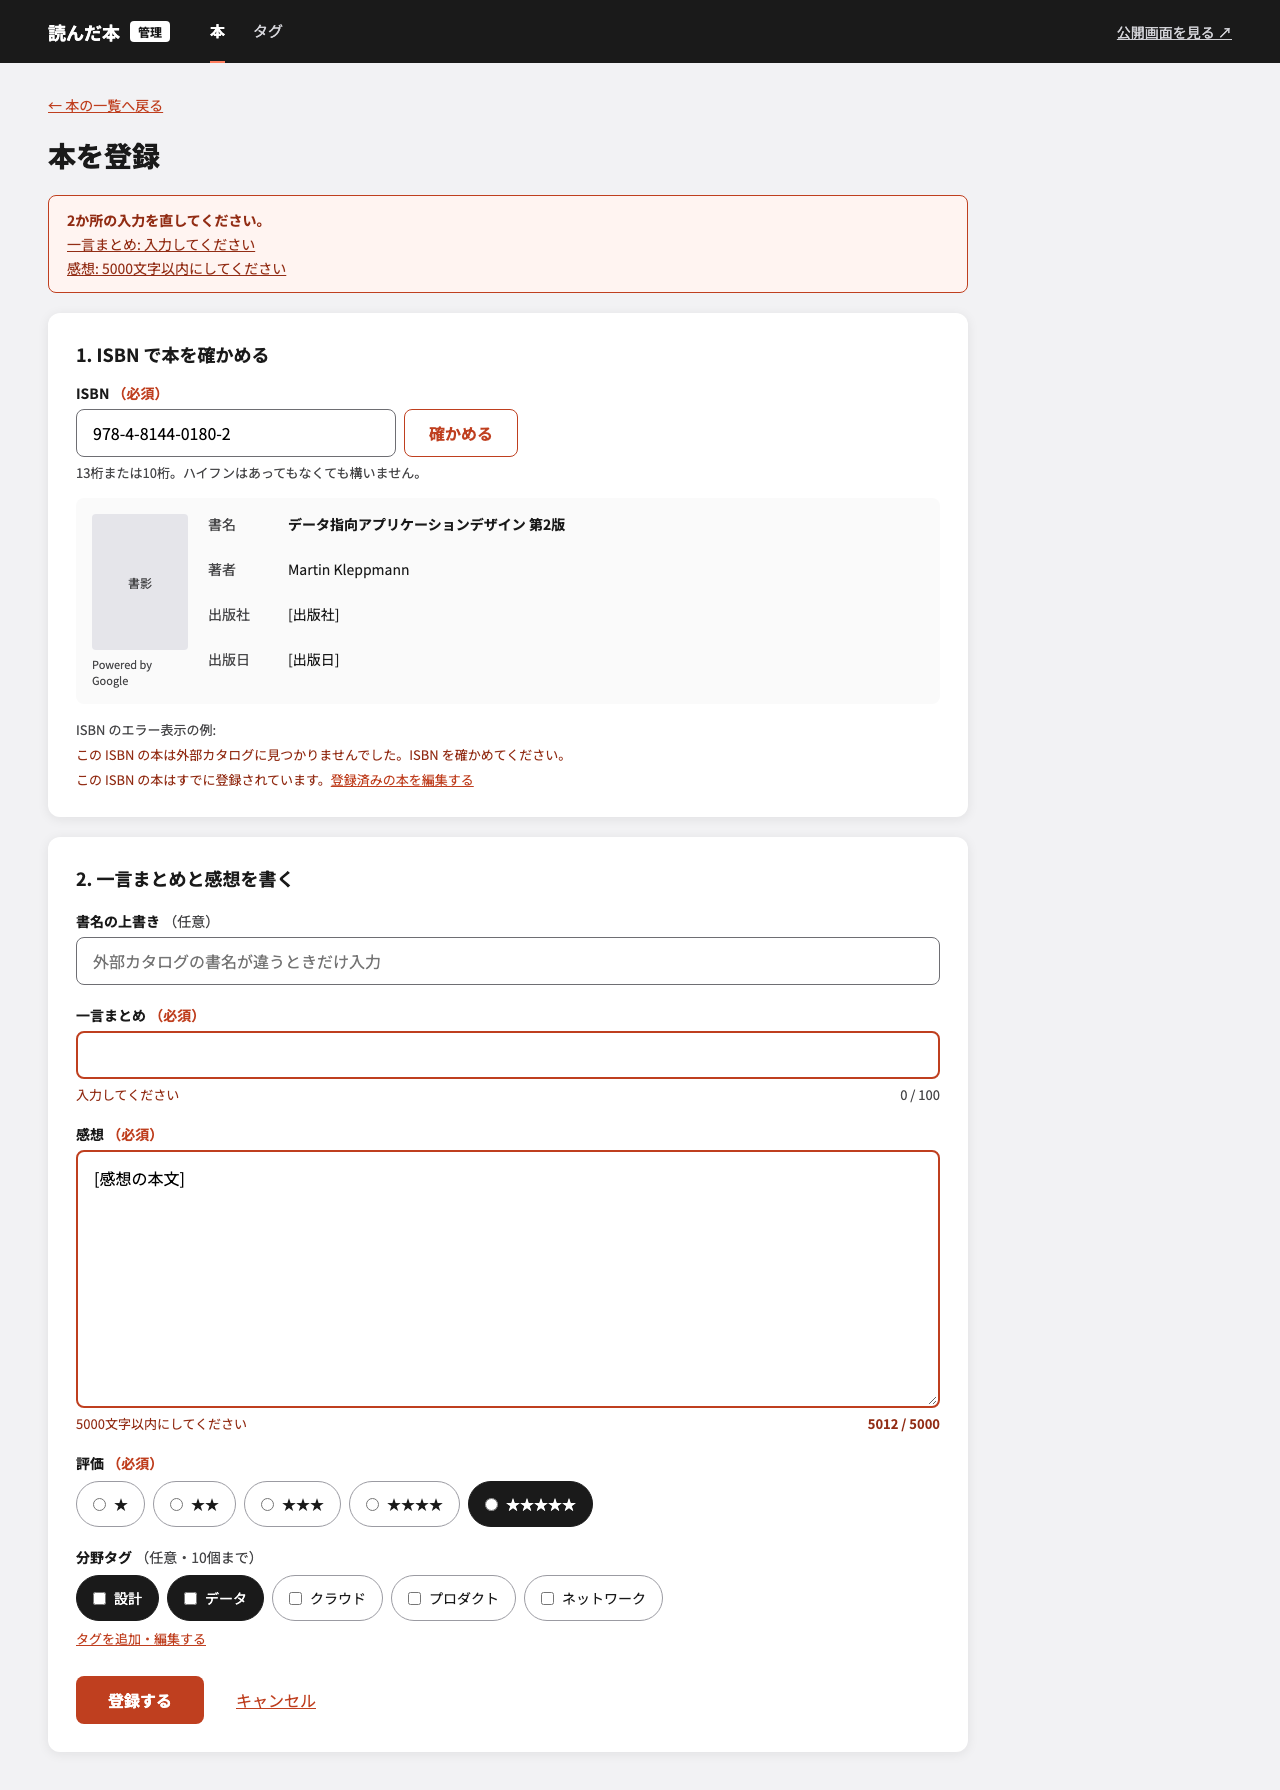
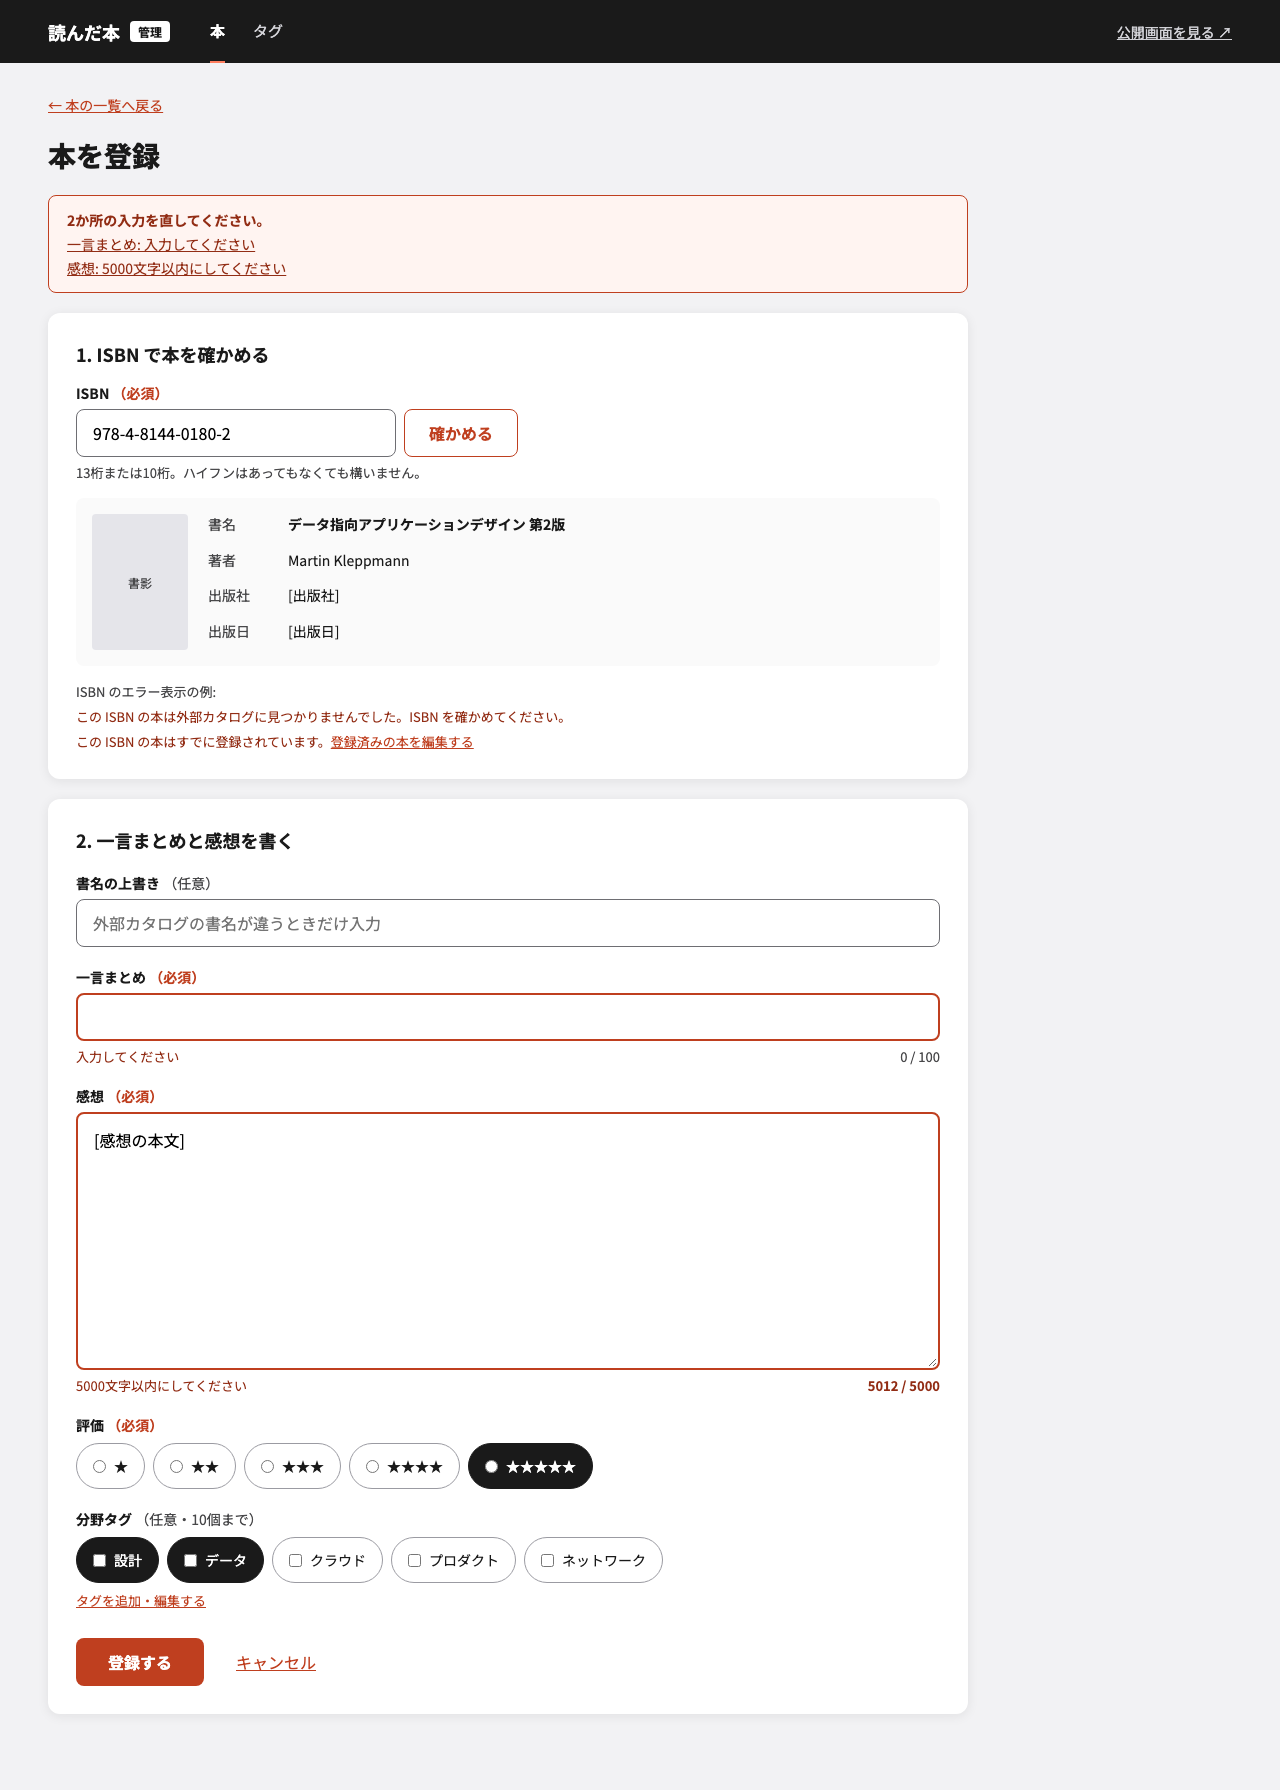
fix: 本の登録の確認欄からGoogleの表示を消す
書影を openBD だけから取ると決め、Google Books を使わなくなったため

diff --git a/docs/design/admin-screens/book-new.html b/docs/design/admin-screens/book-new.html
@@ -42,10 +42,7 @@ a{color:#bf3f1f}a:hover{color:#922d15}
         <p style="margin: 0; font-size: 13px; color: #48484a">13桁または10桁。ハイフンはあってもなくても構いません。</p>
       </div>
       <div style="display: flex; gap: 20px; background: #fafafa; border-radius: 8px; padding: 16px">
-        <div style="display: flex; flex-direction: column; gap: 6px; width: 96px; flex-shrink: 0">
-          <div style="width: 96px; height: 136px; background: #e5e5ea; border-radius: 4px; display: flex; align-items: center; justify-content: center; font-size: 12px; color: #48484a">書影</div>
-          <span style="font-size: 11px; color: #48484a">Powered by Google</span>
-        </div>
+        <div style="width: 96px; height: 136px; flex-shrink: 0; background: #e5e5ea; border-radius: 4px; display: flex; align-items: center; justify-content: center; font-size: 12px; color: #48484a">書影</div>
         <dl style="margin: 0; display: grid; grid-template-columns: 80px minmax(0, 1fr); row-gap: 6px; font-size: 14px">
           <dt style="color: #48484a">書名</dt><dd style="margin: 0; font-weight: 700">データ指向アプリケーションデザイン 第2版</dd>
           <dt style="color: #48484a">著者</dt><dd style="margin: 0">Martin Kleppmann</dd>
